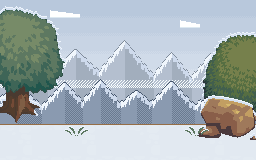
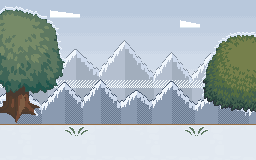
Bỏ đá trên nền cho đơn giản
Claude-Session: https://claude.ai/code/session_01R4fyxfoyhuYVkARwaCbaDZ

Changed region(s): [[0.7812, 0.5938, 1.0, 0.875]]

diff --git a/scripts/gen_bg.py b/scripts/gen_bg.py
@@ -234,7 +234,6 @@ def scene_tu_luyen(s):
     img.alpha_composite(fall.crop((0, 0, 64, GROUND + 12 - top)), (196, top + 2))
     put(img, pine() if s != 3 else snow_cap(season_plants(pine(), 3), 3), -26, GROUND + 6)
     put(img, plant(pine(), s), 34, GROUND - 2) if False else None
-    put(img, plant(ROCK, s), 52, GROUND + 16)
     tufts(img, s, [20, 150, 168])
     return img
 
@@ -245,7 +244,6 @@ def scene_du_ngoan(s):
     ground(img, s, 'road')
     put(img, plant(ROUND, s, blossom=True), -30, GROUND + 4)
     put(img, plant(BUSH, s), 200, GROUND + 4)
-    put(img, plant(ROCK, s), 196, GROUND + 18)
     tufts(img, s, [60, 180])
     return img
 
